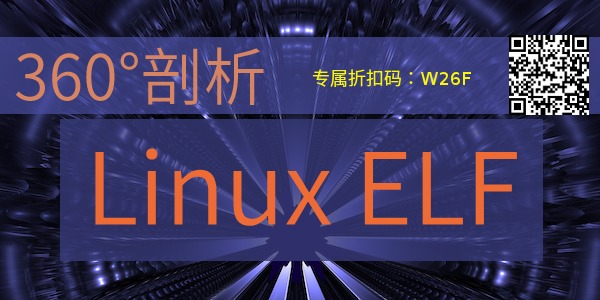
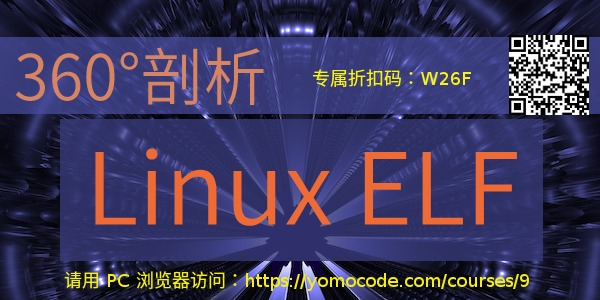
post: update 360-elf course

Changed region(s): [[0.09, 0.9, 0.9, 0.99]]

diff --git a/_posts/2019-08-20-07-08-30-360-elf.md b/_posts/2019-08-20-07-08-30-360-elf.md
@@ -168,9 +168,9 @@ ELF 是 Linux 平台上可执行程序文件的标准格式，通过它可以把
 
 ## 报名方法
 
-通过电脑浏览器访问 yomocode.com （*暂不支持手机访问*），先点击网站右上角图标，微信扫码登录，然后在此链接报名：
+通过 PC 浏览器访问 yomocode.com （*暂不支持手机访问*），先点击网站右上角图标，微信扫码登录，然后在此链接报名：
 
-- <http://www.yomocode.com/courses/9>
+- 目前仅支持 PC 访问：<http://yomocode.com/courses/9>
 
 当前早鸟优惠价为 599 元，预计优惠价将于 8 月 30 日晚上 23 点结束，之后价格 759 元。
 

diff --git a/_posts/2019-08-13-07-30-30-makefile-deep-usage.md b/_posts/2019-08-13-07-30-30-makefile-deep-usage.md
@@ -3,7 +3,6 @@ layout: post
 author: 'Wu Zhangjin'
 title: "11 个 Makefile 进阶用法"
 draft: false
-top: true
 license: "cc-by-nc-nd-4.0"
 permalink: /makefile-deep-usage/
 description: "本文汇总了诸多 Makefile 进阶用法，提升 Makefile 阅读和编写效率。"
